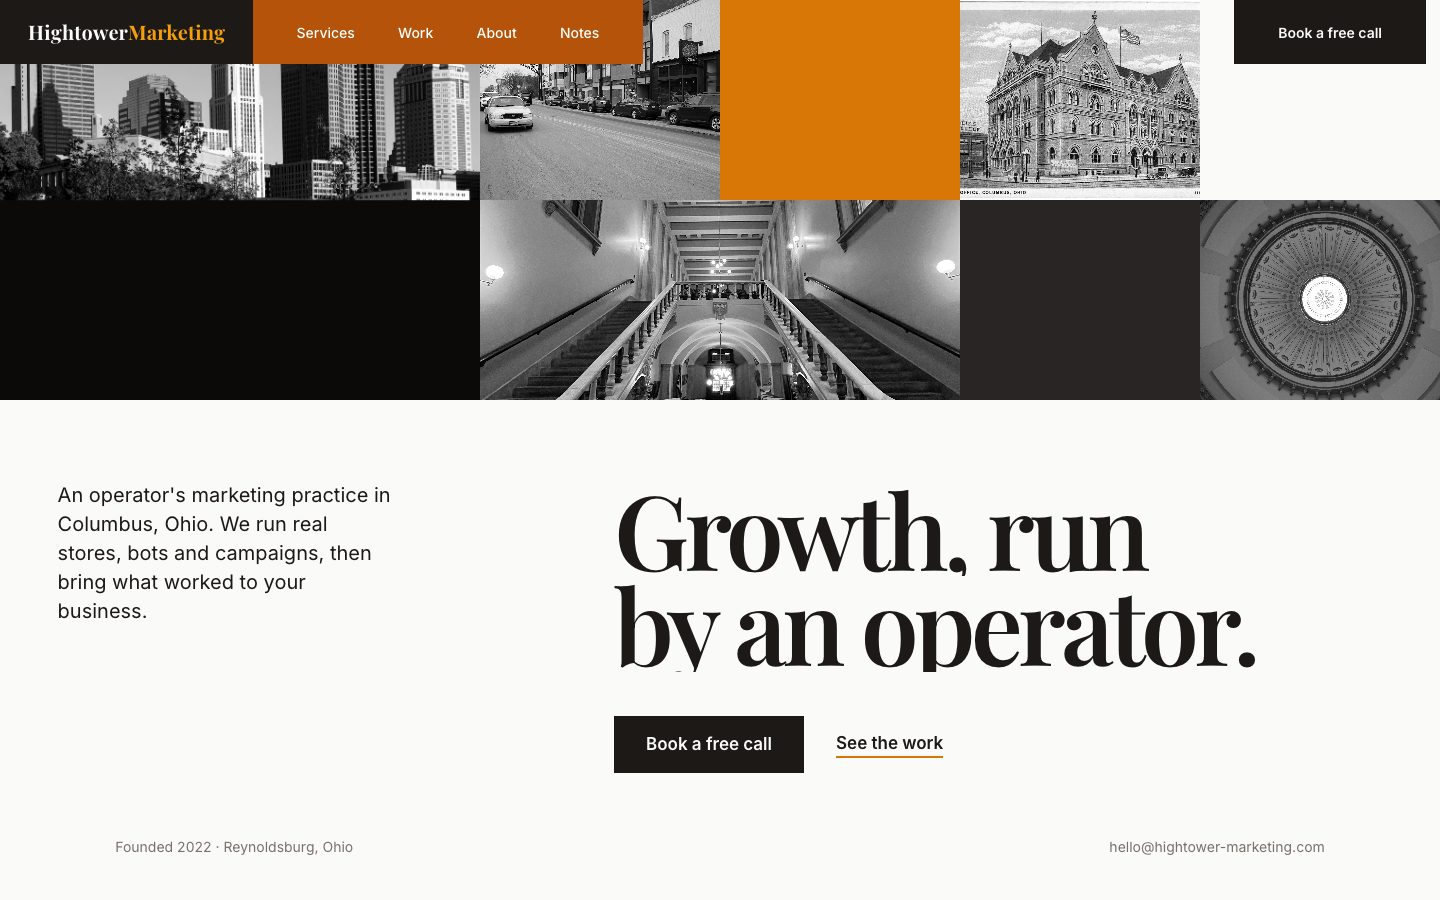
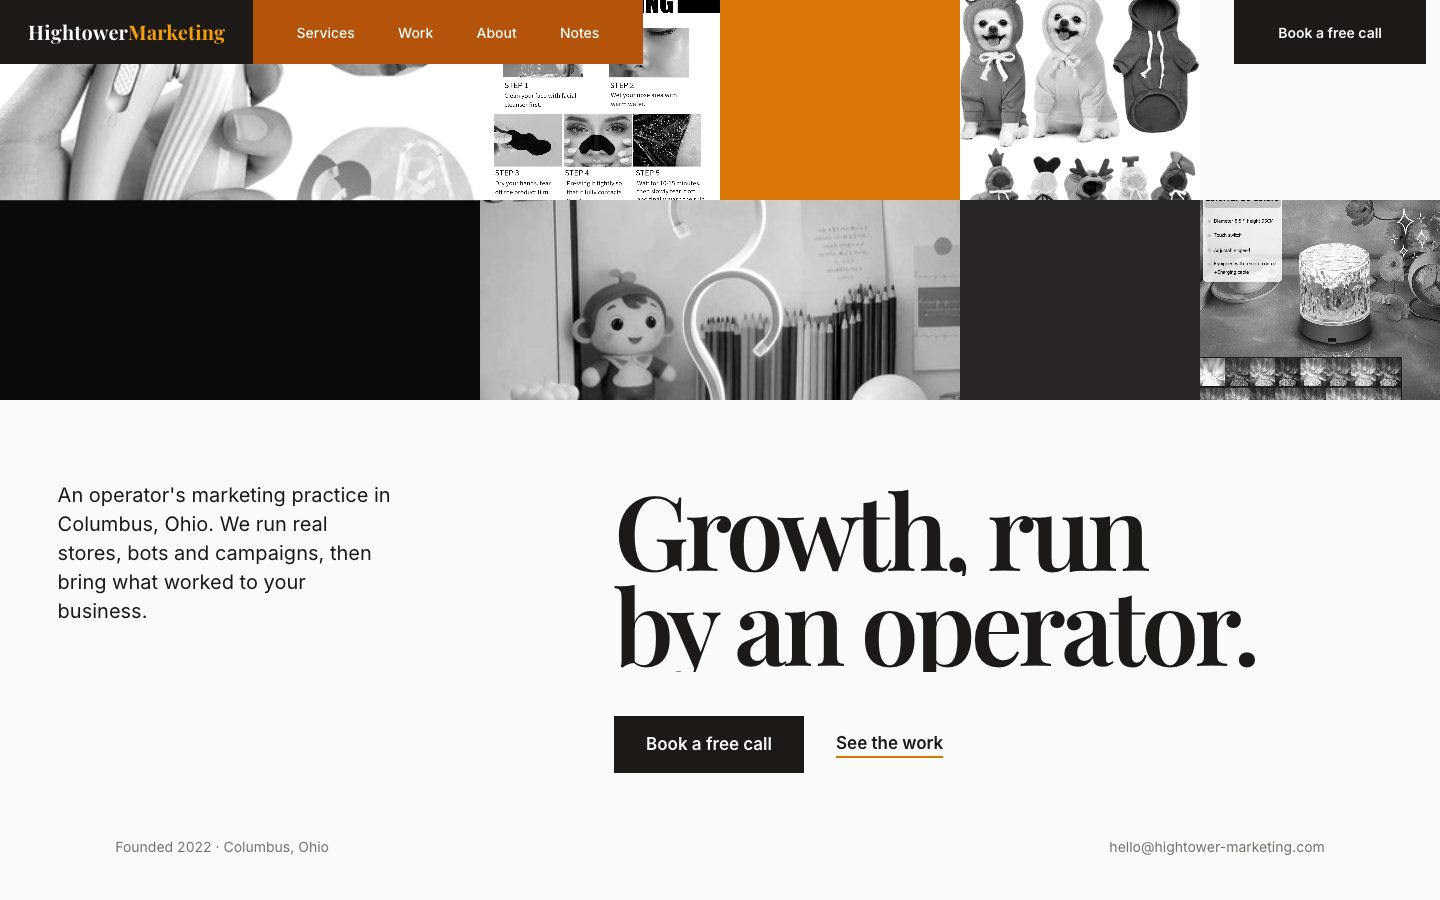
v3.2: PRIVACY — removed all Taylor Mills Pl + Reynoldsburg mentions (7 refs -> Columbus, Ohio business city only). IMAGERY — replaced all 13 random Columbus postcards with real TrendLoop product photography (6 SKUs). Inspector 0 FAIL.

Changed region(s): [[0.0, 0.0, 1.0, 0.4667], [0.1562, 0.9333, 0.25, 0.9644]]

diff --git a/index.html b/index.html
@@ -282,14 +282,14 @@ footer a:hover,footer a:focus-visible{color:var(--gold-bright)}
 
 <div class="masthead">
   <div class="band" aria-hidden="true">
-    <img class="cell-2x1 move" src="assets/columbus-ohio-skyline-original-image.webp" alt="">
-    <img class="cell-1x1" src="assets/high-street-columbus-ohio.jpg" alt="">
+    <img class="cell-2x1 move" src="assets/work-pet-nail-clipper.jpg" alt="">
+    <img class="cell-1x1" src="assets/work-nose-patches.jpg" alt="">
     <div class="tile-gold cell-1x1"></div>
-    <img class="cell-1x1" src="assets/post-office-columbus-ohio-1932.jpg" alt="">
+    <img class="cell-1x1" src="assets/work-dog-hoodie.jpg" alt="">
     <div class="tile-coal cell-2x2"></div>
-    <img class="cell-2x1" src="assets/columbus-ohio-statehouse-20220421132212.jpg" alt="">
+    <img class="cell-2x1" src="assets/work-question-lamp.jpg" alt="">
     <div class="tile-ground cell-1x1"></div>
-    <img class="cell-1x1" src="assets/columbus-ohio-statehouse-20220421132228.jpg" alt="">
+    <img class="cell-1x1" src="assets/work-water-projector.jpg" alt="">
   </div>
 </div>
 
@@ -304,7 +304,7 @@ footer a:hover,footer a:focus-visible{color:var(--gold-bright)}
     <a class="link-plain" href="#work">See the work</a>
   </div>
   <div class="hero-foot">
-    <span>Founded 2022 · Reynoldsburg, Ohio</span>
+    <span>Founded 2022 · Columbus, Ohio</span>
     <span>hello@hightower-marketing.com</span>
   </div>
 </section>
@@ -341,7 +341,7 @@ footer a:hover,footer a:focus-visible{color:var(--gold-bright)}
     <div class="note-col note-col-r">
       <div class="note rise"><b>Supplier-wired</b>Inventory, pricing and tracking sync straight from CJ's API.</div>
       <div class="note rise"><b>One operator</b>You talk to the person who owns the systems, never an account manager.</div>
-      <div class="note rise"><b>Columbus-based</b>A local practice on Taylor Mills Pl, Reynoldsburg.</div>
+      <div class="note rise"><b>Ohio-built</b>Systems and suppliers wired for US buyers and US shipping.</div>
     </div>
   </div>
 </section>
@@ -349,21 +349,21 @@ footer a:hover,footer a:focus-visible{color:var(--gold-bright)}
 <section class="section work" id="work">
   <div class="wrap">
     <div class="work-block">
-      <div class="work-visual rise"><img src="assets/high-street-columbus-ohio.jpg" alt="High Street, Columbus, where the first clients came from" loading="lazy"></div>
+      <div class="work-visual rise"><img src="assets/work-hero-lifestyle.png" alt="TrendLoop storefront hero product: LED photon facial mask, a live SKU with real buyers" loading="lazy"></div>
       <div class="work-copy rise">
         <h3>TrendLoop, a store built to run itself</h3>
         <p>Product research, listings, supplier sync and fulfillment wired end to end: 17 SKUs across eBay, Shopify and TikTok Shop, inventory pulled nightly from the supplier's API, first tracked sale shipped 10 days after launch.</p>
       </div>
     </div>
     <div class="work-block">
-      <div class="work-visual rise"><img src="assets/columbus-ohio-statehouse-20220421132228.jpg" alt="Ohio Statehouse, Columbus" loading="lazy"></div>
+      <div class="work-visual rise"><img src="assets/work-water-projector.jpg" alt="Water ripple projector, one of 17 live SKUs synced from supplier API" loading="lazy"></div>
       <div class="work-copy rise">
         <h3>A 10,255-property data refinery</h3>
         <p>An 18-city Ohio property engine that scrapes, enriches and scores wholesale deals on a weekly cron. The same automation patterns power our clients' reporting and lead flows.</p>
       </div>
     </div>
     <div class="work-block">
-      <div class="work-visual rise"><img src="assets/post-office-columbus-ohio-1932.jpg" alt="Columbus Post Office, 1932, direct mail, the original channel" loading="lazy"></div>
+      <div class="work-visual rise"><img src="assets/work-dog-hoodie.jpg" alt="Pet apparel from the storefront lineup, supplier-wired inventory" loading="lazy"></div>
       <div class="work-copy rise">
         <h3>12 posts, published while we sleep</h3>
         <p>The blog writes, formats, covers and posts itself on a schedule, with search indexing verified through Google Search Console. Content compounds without anyone pressing publish.</p>
@@ -375,7 +375,7 @@ footer a:hover,footer a:focus-visible{color:var(--gold-bright)}
 <section class="section wrap" id="numbers">
   <h2 class="section-title rise">The record so far</h2>
   <div class="stats-mosaic rise">
-    <div class="photo"><img src="assets/columbus-ohio-skyline-original-image.webp" alt="Columbus skyline at dusk" loading="lazy"></div>
+    <div class="photo"><img src="assets/work-hero-lifestyle.png" alt="Photon facial mask from the live storefront" loading="lazy"></div>
     <div class="tiles">
       <div class="figure-tile tile-a"><span class="n">12+</span><span class="c">Local clients served since 2022</span></div>
       <div class="figure-tile tile-b"><span class="n">48h</span><span class="c">Average delivery time on campaign work</span></div>
@@ -388,7 +388,7 @@ footer a:hover,footer a:focus-visible{color:var(--gold-bright)}
   <div class="row" style="margin-top:72px">
     <div class="facts">
       <div class="f"><div class="l">Founded</div><div class="v">2022</div></div>
-      <div class="f"><div class="l">Based in</div><div class="v">Reynoldsburg, Ohio</div></div>
+      <div class="f"><div class="l">Based in</div><div class="v">Columbus, Ohio</div></div>
       <div class="f"><div class="l">Practice</div><div class="v">Marketing · automation · e-commerce</div></div>
     </div>
     <p class="about-para">Most agencies advise. <strong>We operate.</strong> Hightower Marketing Strategies runs its own storefronts, pipelines and publications first, then brings the parts that actually worked to your business. No guesswork, no recycled playbooks. Every recommendation we make has already survived contact with real customers, real margins and real fulfillment deadlines. When you hire us, you get the operator, not an account layer.</p>
@@ -421,16 +421,16 @@ footer a:hover,footer a:focus-visible{color:var(--gold-bright)}
 <section id="contact">
   <h2 class="section-title rise wrap" style="padding-top:clamp(88px,13vh,160px)">Start the audit</h2>
   <div class="cta-photos" aria-hidden="true">
-    <img src="assets/high-street-columbus-ohio.jpg" alt="" loading="lazy">
-    <img src="assets/columbus-ohio-statehouse-20220421132212.jpg" alt="" loading="lazy">
-    <img src="assets/columbus-ohio-skyline-original-image.webp" alt="" loading="lazy">
+    <img src="assets/work-pet-nail-clipper.jpg" alt="" loading="lazy">
+    <img src="assets/work-water-projector.jpg" alt="" loading="lazy">
+    <img src="assets/work-pet-nail-clipper.jpg" alt="" loading="lazy">
   </div>
   <div class="cta-band">
     <div class="wrap cta-inner">
       <p class="cta-statement">Ready to grow without the guesswork? <a href="mailto:hello@hightower-marketing.com">Book a free call</a> and get a real audit of your marketing, not a pitch deck.</p>
-      <p class="cta-sub">Reynoldsburg, Ohio · hello@hightower-marketing.com · Replies within one business day.</p>
+      <p class="cta-sub">Columbus, Ohio · hello@hightower-marketing.com · Replies within one business day.</p>
       <div class="cta-person">
-        <img src="assets/post-office-columbus-ohio-1932.jpg" alt="" loading="lazy">
+        <img src="assets/work-question-lamp.jpg" alt="" loading="lazy">
         <p class="who">Blake Hightower. You'll talk to me.</p>
       </div>
     </div>
@@ -441,13 +441,13 @@ footer a:hover,footer a:focus-visible{color:var(--gold-bright)}
   <div class="wrap">
     <p class="foot-name">Hightower Marketing</p>
     <div class="foot-inner">
-      <span>© 2026 Hightower Marketing Strategies LLC · Reynoldsburg, Ohio</span>
+      <span>© 2026 Hightower Marketing Strategies LLC · Columbus, Ohio</span>
       <span>
         <a href="services.html">Services</a> · <a href="#work">Work</a> · <a href="about.html">About</a> · <a href="blog.html">Notes</a> · <a href="contact.html">Contact</a>
       </span>
-      <span>Photography: Columbus views from open collections, full credits below.</span>
+      <span>Photography: The storefront, running live. Full notes below.</span>
     </div>
-    <p style="margin-top:18px;font-size:14px;line-height:1.6;max-width:72ch">Images: “Post Office, Columbus, Ohio (1932)” by Sent from the Past (public domain, via Flickr); “High Street – Columbus, Ohio”; “Columbus – Ohio Statehouse” photographs; “Columbus, Ohio, skyline”, via Openverse, used under their licenses. They show the world around the practice, not its offices or clients.</p>
+    <p style="margin-top:18px;font-size:14px;line-height:1.6;max-width:72ch">Product photography from the TrendLoop storefront and its supplier catalog, photographed for commerce. Numbers on this page come from our own live operations.</p>
   </div>
 </footer>
 
